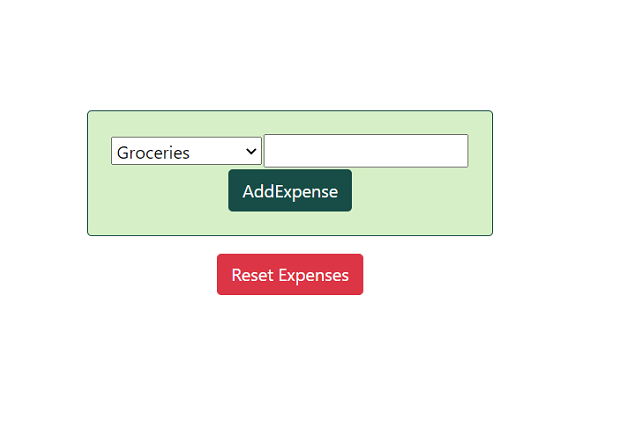
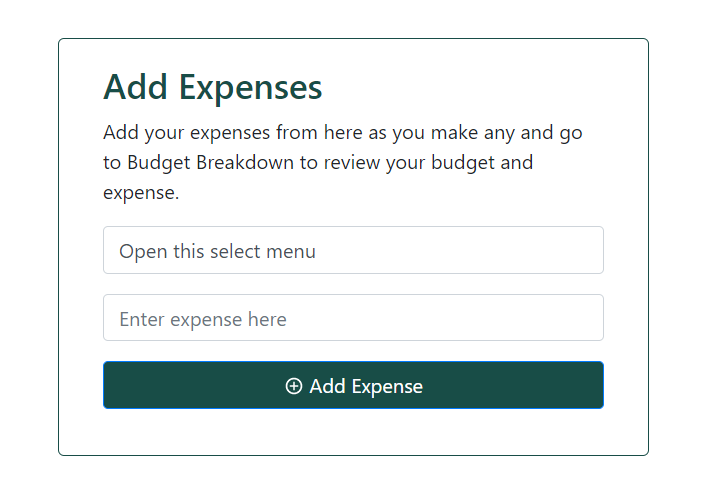
solves error in navbar and other

Changed region(s): [[0.1201, 0.2441, 0.8705, 0.8239], [0.06, 0.0915, 0.9305, 0.9155], [0.1501, 0.1221, 0.4502, 0.2136]]

diff --git a/src/components/Navbar.js b/src/components/Navbar.js
@@ -32,14 +32,14 @@ const Navbar = ({ onLogout }) => {
                                     </NavLink>
                                 </li>
                                 <li className="nav-item dropdown">
-                                    <a class="nav-link dropdown-toggle text-white setBold" href="#" id="navbarDropdown" role="button" data-toggle="dropdown" aria-haspopup="true" aria-expanded="false">
+                                    <a className="nav-link dropdown-toggle text-white setBold" id="navbarDropdown" role="button" data-toggle="dropdown" aria-haspopup="true" aria-expanded="false">
                                         <FaUserCircle className="mb-1" /> {localStorage.getItem('userName')}
                                     </a>
-                                    <div class="dropdown-menu dropdown-menu-right" aria-labelledby="navbarDropdown">
-                                        <NavLink class="dropdown-item" to={{ pathname: '/editProfile', aboutProps:{isAfterRegister: false} }} >
+                                    <div className="dropdown-menu dropdown-menu-right" aria-labelledby="navbarDropdown">
+                                        <NavLink className="dropdown-item" to={{ pathname: '/editProfile', aboutProps:{isAfterRegister: false} }} >
                                             <FaUserEdit className="mb-1" /> Edit / Delete Account
                                         </NavLink>
-                                        <div class="dropdown-divider"></div>
+                                        <div className="dropdown-divider"></div>
                                         <div className='mx-1'>
                                             <button className='form-control btn btn-danger btn' onClick={() => onLogout()}>
                                                 <FaSignOutAlt className="mb-1" /> Logout

diff --git a/src/components/AddExpense.js b/src/components/AddExpense.js
@@ -7,7 +7,7 @@ import { RiAddCircleLine, RiEditCircleFill } from "react-icons/ri";
 
 const AddExpense = () => {
     // useState for budgets
-    const [expense, setExpense] = useState('groceries');
+    const [expense, setExpense] = useState('');
 
     const [value, setValue] = useState('');
 
@@ -87,13 +87,14 @@ const AddExpense = () => {
                 <div className="card col-5 my-5 mx-auto px-0 rounded-lg text-center" style={{ borderColor: '#184d47' }}>
                     <form className="card-body" onSubmit={(e) => handleSubmit(e)}>
                         <div className="form-group col-sm text-left">
-                            <h3 style={{color :'#184d47'}}>Add Expenses</h3>
+                            <h3 style={{ color: '#184d47' }}>Add Expenses</h3>
                             <p>Add your expenses from here as you make any and go to Budget Breakdown to review your budget and expense.</p>
                         </div>
 
                         <div className="form-group col-sm text-left w-10">
                             <select className="form-control" name="expenses" id="expenses" onChange={(e) => setExpense(e.target.value)}>
-                                <option value="groceries" defaultValue>Groceries</option>
+                                <option selected>Open this select menu</option>
+                                <option value="groceries">Groceries</option>
                                 <option value="housing">Housing</option>
                                 <option value="transportation">Transportation</option>
                                 <option value="clothing">Clothing</option>

diff --git a/src/components/Home.js b/src/components/Home.js
@@ -1,6 +1,8 @@
 import React from 'react'
 import { Link } from 'react-router-dom';
 import { Card, CardDeck } from "react-bootstrap";
+import { FaSignInAlt } from "react-icons/fa";
+import { BsPersonPlusFill } from "react-icons/bs";
 
 const Home = () => {
     return (
@@ -15,12 +17,12 @@ const Home = () => {
                         <div>
                             <Link to="/register" title="Register">
                                 <button className="btn" style={{ backgroundColor: '#184d47', color: '#fff' }}>
-                                    Let's Get Started
+                                    <BsPersonPlusFill className="mb-1 " /> Let's Get Started
                             </button>
                             </Link>
                             <Link exact to="/login" title="Login">
                                 <button className="btn" style={{ backgroundColor: '#184d47', color: '#fff', marginLeft: '10px' }}>
-                                    Login
+                                    <FaSignInAlt className="mb-1" /> Login
                             </button>
                             </Link>
                         </div>}

diff --git a/src/components/EditBudgets.js b/src/components/EditBudgets.js
@@ -94,7 +94,7 @@ const EditBudgets = () => {
                 <div className="card-body">
                     <div className="mx-auto" style={{ border: '1px solid black' }}>
                         <div>
-                            <p className='shadow-sm mx-2 mt-2 p-3 rounded ptag'>From here you can set your budgets. A budget is basically an estimation of revenue and expenses over a specified future period of time and is usually compiled and re-evaluated on a periodic basis.</p>
+                            <p className='shadow-sm mx-2 mt-2 p-3 rounded'>From here you can set your budgets. A budget is basically an estimation of revenue and expenses over a specified future period of time and is usually compiled and re-evaluated on a periodic basis.</p>
                         </div>
                         <div className='centered'>
                             {isLoading && <Loading />}

diff --git a/src/components/EditProfile.js b/src/components/EditProfile.js
@@ -87,11 +87,6 @@ const Profile = (props) => {
                     {message && <DisplayMessage message={message} />}
                 </div>
                 <div className="card col-4 my-5 mx-auto px-0 rounded-lg text-center" style={{ borderColor: '#184d47' }}>
-                    <div className='centered'>
-                        {isLoading && <Loading />}
-                        {error && <DisplayError error={error} />}
-                        {message && <DisplayMessage message={message} />}
-                    </div>
                     <form className="card-body" onSubmit={(e) => handleSubmit(e)}>
                         <div className="form-group col-sm text-left">
                             <h3>Tells us about yourself</h3>

diff --git a/src/components/Statistics.js b/src/components/Statistics.js
@@ -86,14 +86,20 @@ const Statistics = () => {
     const calculateReturn = () => {
 
         const newAges = [], newYearlyReturn = [];
-        const savings = income - expenses.totalExpense;
+        var savings = Math.max(income - expenses.totalExpense, 0 );
         var total = savings * 0.8;
+
+        if(total === 0) {
+            total = 2000;
+        }
 
         setInvestment(total);
 
         if (savings < income * 0.2) {
             setSurpassed(true);
         }
+
+        savings = 2000;
 
         for (var i = age; i <= maxAge; i++) {
             total = (Math.round(total + (total * 0.04))) + savings * 12;
